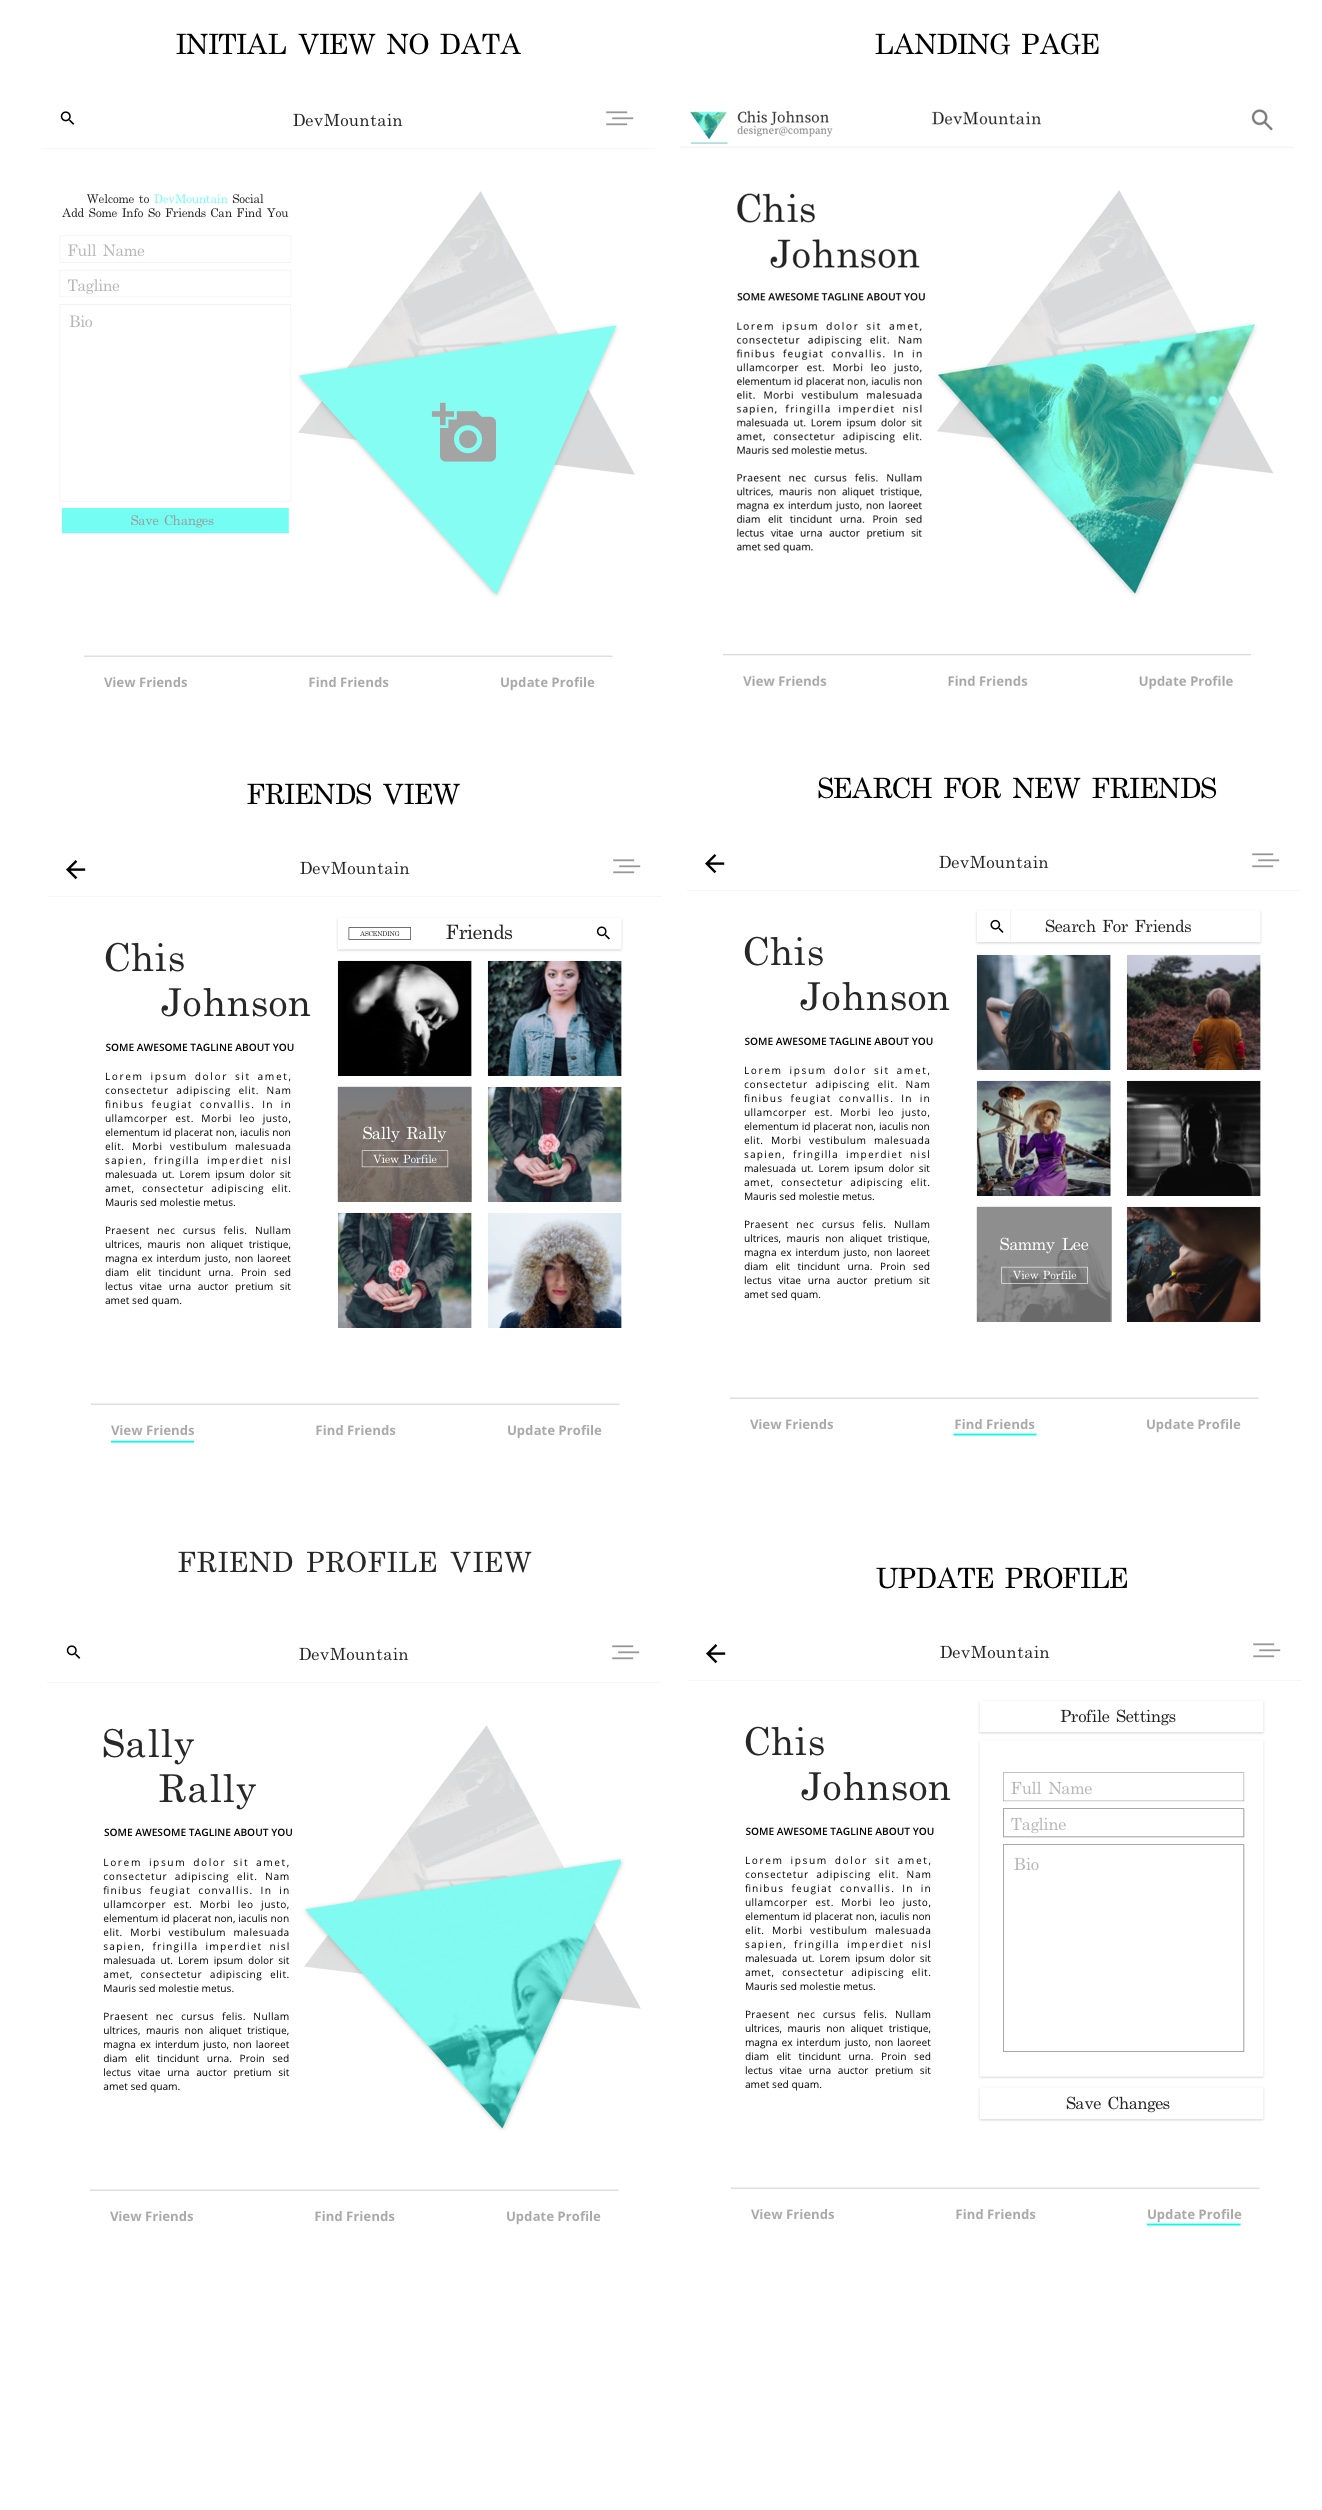
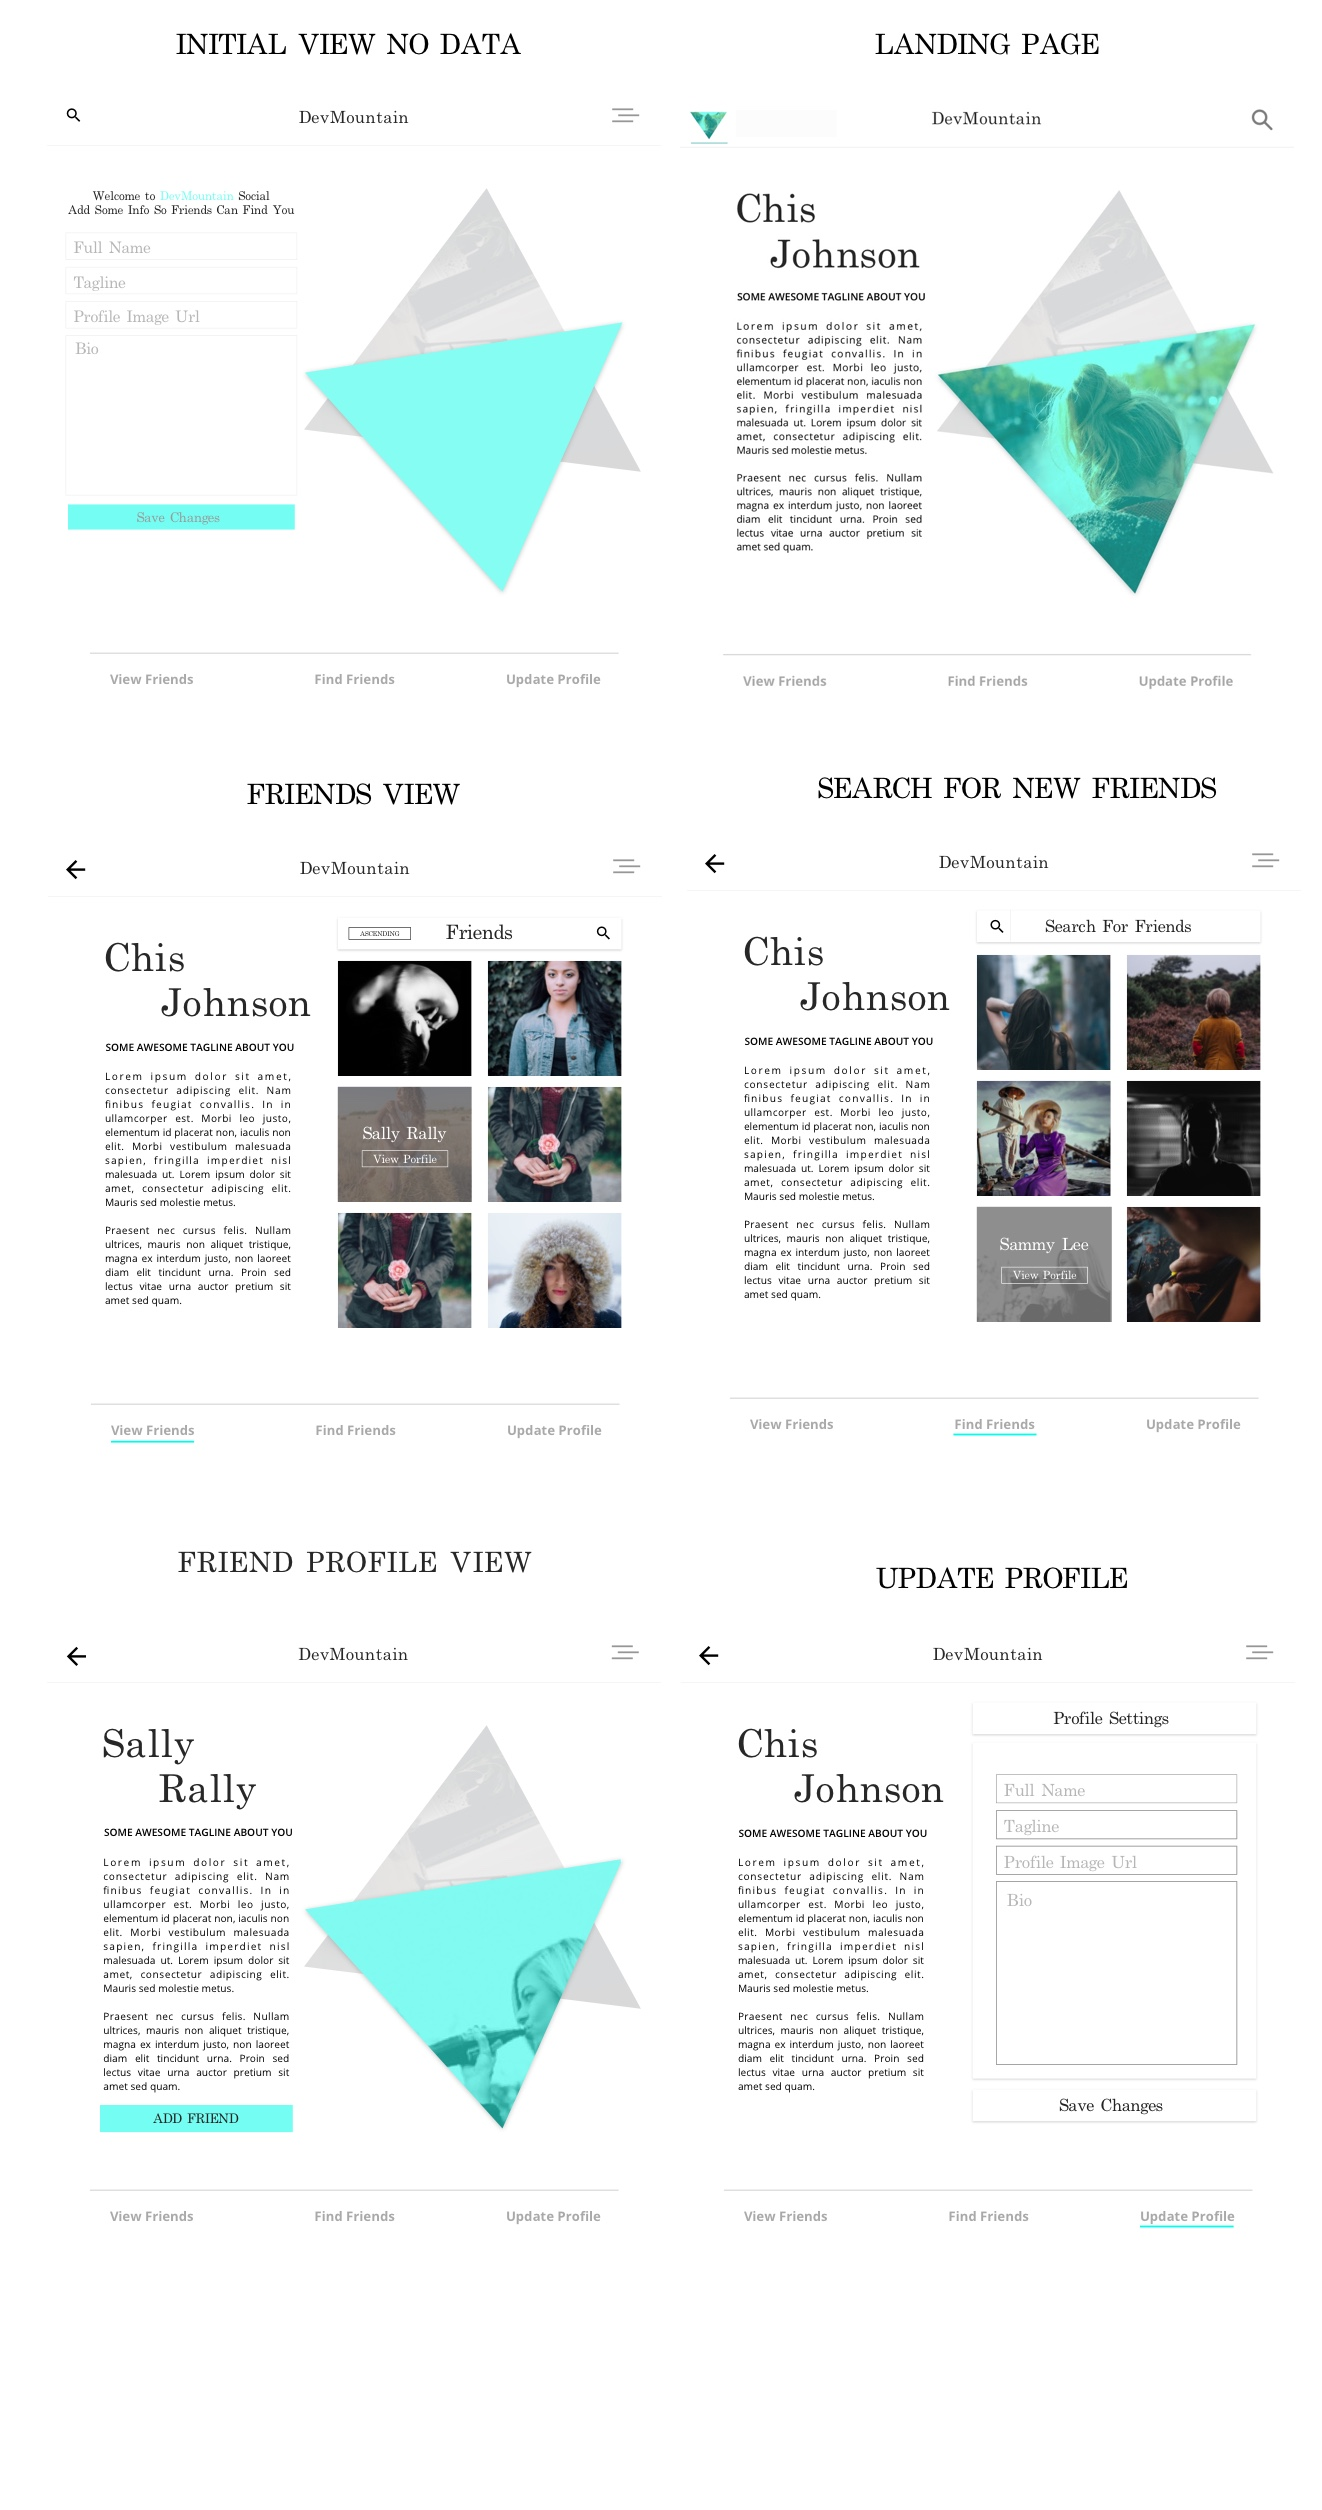
Requirements style

diff --git a/README.md b/README.md
@@ -21,4 +21,93 @@ Director, Web @ DevMountain
 
 # Requirements
 
+## Application Design
+
+This is located in the images folder in this project.
+
 ![Application Design](https://github.com/DevMountain/dev-mt-in/blob/master/images/DevMtn-Social-app.jpg?raw=true, "Application Design")
+
+## Requirements
+
+### Day 1:
+__Bottom Nav__
+* Navigation is controlled at the bottom of the screen
+* User can navigate between `View Friends` `Find Friends` and `Update Profile`
+* Currently focused 'page' is underlined
+
+__Entry View__
+* Entry view is seen when the user first enters the application
+* User is prompted to add data when the first enter the application
+* User can add Full-name, tagline, bio, and profile pic URL
+* User can save changes
+* After saving changes user is taken to the Landing Page
+* Entry View looks like provided screen shots
+
+__Landing Page__
+* User sees their name
+* User sees their tagline
+* User sees their bio
+
+__Update Profile__
+* User can change their fullname, tagline, profile pic, and bio
+
+
+### Day 2:
+Use two services for this day.  One to track people and one to track friends.
+Use local storage to keep track of the data.
+
+__Friends View__
+* User can search for existing friends
+    * Friends list updates based on search criteria
+* Hovering over a friend displays the friend name and `View Profile` as seen in the design.
+* User can select a friend by hovering then selecting View Profile
+    * Page navigates to friend profile View when `View Profile` is clicked
+
+__Friend Profile View__
+* User can view friend: name, tagline, bio, and profile image
+* User can navigate using the back button back to friends view
+* Add Friend Button
+    * Says `Add Friend` if person is not your friend already
+        * Adds that person to your friend list 
+    * Says `Remove Friend` if person is your friend
+        * Removes that person to your friend list
+
+__Find Friends View__
+* User can search people (not friends) by name
+* Hovering over a person displays the person name and `View Profile` as seen in the design.
+* User can select a person by hovering then selecting View Profile
+    * Page navigates to friend profile View when `View Profile` is clicked
+
+### Day 3
+There are no new visuals and pages to add, but currently all our data is stored locally. Use the following API to POST, GET, PUT, and DELETE user profiles and friends:
+
+#### API Urls
+Base Url:
+`http://connections.devmounta.in/`
+
+`/api/profiles` - POST
+
+`/api/profiles/:id` - GET, DELETE, PUT
+
+`'/api/profiles/:userid/friends/:friendId'` - DELETE, PUT
+
+`'/api/friends/:userId'` - GET
+
+#### API Data structure
+All profiles are stored with this structure that you must match when saving:
+```javascript
+{
+    name: ,
+    tagline: ,
+    bio: ,
+    profileUrl: ,
+    friends: [friendId]
+}
+```    
+
+### Day 4 - Black Diamond
+This is a 'challenge' item.  To push above and beyond. It is not included in the design specs.
+
+* Add the ability to browse through a friends friends and add them to your friends.
+
+`'/api/friends-friends/:friendId'` - GET
